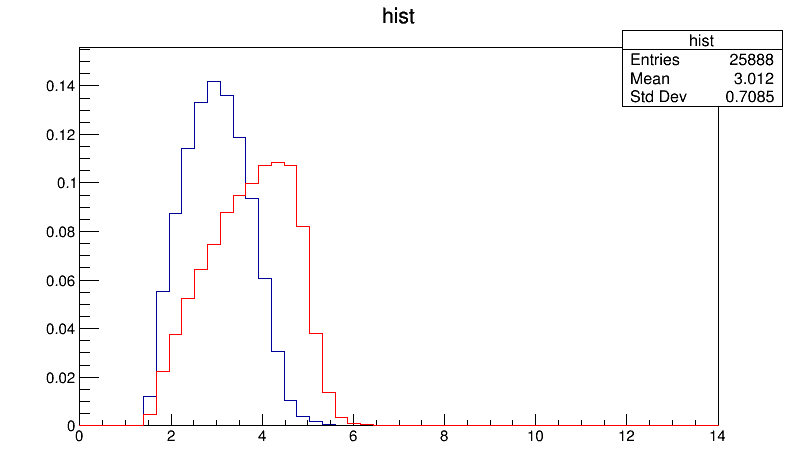
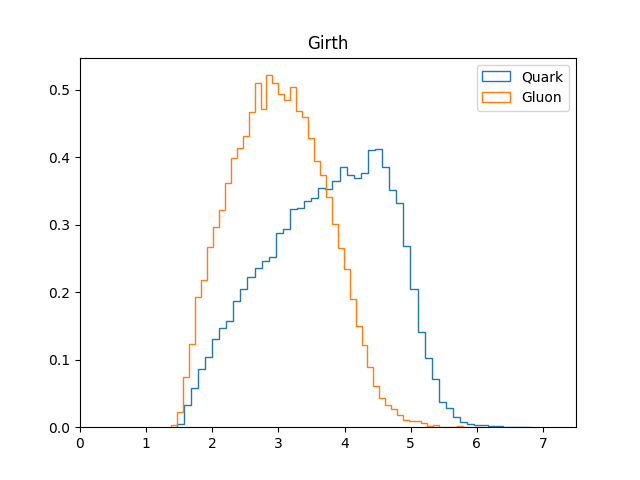
Repeat analysis EflowTracker
Rewrote histogram plotting code in Matplotlib

diff --git a/analysis-code/main-analysis.cc b/analysis-code/main-analysis.cc
@@ -24,6 +24,7 @@ void write_to_file(std::vector<float> e2_main);
 void add_to_hist(std::vector<float> e2_main,TH1 *e2_hist);
 void hist_to_file(TH1 *e2,double *a);
 void eflow_analysis(Float_t *ET,Float_t *eta,Float_t *phi,Float_t *E,Int_t size,std::vector<float> &e2,double *a);
+void eflow_analysis_track(Float_t *ET,Float_t *eta,Float_t *phi,Float_t *E,Int_t* PID,Int_t size,std::vector<float> &e2,double *a);
 template <typename T>
 void EventLoop(T &event,std::vector<float> &e2,double *a,int &taskid,int &numtasks)
 {
@@ -39,9 +40,25 @@ void EventLoop(T &event,std::vector<float> &e2,double *a,int &taskid,int &numtas
      std::cout<<std::setw(15)<<"Gathering event  "<<std::setw(10)<<jentry<<std::setw(15)<<
          " in the process "<<std::setw(2)<<taskid<<std::setw(5)<<"("<<(k*100.0)/chunksize<<"% )"<<std::endl;}
      event.GetEntry(jentry);
-     //root_to_fastjet(event.Particle_Px,event.Particle_Py,event.Particle_Pz,event.Particle_E,event.Particle_Status,event.Particle_PID,event.Particle_size,e2,a);
-     eflow_analysis(event.eflow_ET,event.eflow_Eta,event.eflow_Phi,event.eflow_E,event.eflow_size,e2,a); 
+     root_to_fastjet(event.Particle_Px,event.Particle_Py,event.Particle_Pz,event.Particle_E,event.Particle_Status,event.Particle_PID,event.Particle_size,e2,a);
+     //eflow_analysis(event.eflow_ET,event.eflow_Eta,event.eflow_Phi,event.eflow_E,event.eflow_size,e2,a); 
+     //eflow_analysis_track(event.EFlowTrack_PT,event.EFlowTrack_Eta,event.EFlowTrack_Phi,event.EFlowTrack_P,event.EFlowTrack_PID,event.EFlowTrack_size,e2,a); 
+
    }
+
+}
+void eflow_analysis_track(Float_t *ET,Float_t *eta,Float_t *phi,Float_t *E,Int_t* PID,Int_t size,std::vector<float> &e2,double *a){
+  Float_t px[size];
+  Float_t py[size];
+  Float_t pz[size];
+  Int_t status[size];
+  for(int i=0;i<size;i++){
+    px[i] = ET[i]*std::cos(phi[i]);
+    py[i] = ET[i]*std::sin(phi[i]);
+    pz[i] = ET[i]*std::sinh(eta[i]);
+    status[i] = 1;
+  }
+   root_to_fastjet(px,py,pz,E,status,PID,size,e2,a);
 
 }
 void eflow_analysis(Float_t *ET,Float_t *eta,Float_t *phi,Float_t *E,Int_t size,std::vector<float> &e2,double *a){

diff --git a/plotting-code/histoviewer.py b/plotting-code/histoviewer.py
@@ -1,0 +1,21 @@
+import numpy as np
+import matplotlib.pyplot as plt
+import matplotlib.cm as cm
+kkk=cm.gist_stern # Put the Plotting Style here
+temp = np.loadtxt('quark_1e5_13tev-eflow.txt')
+temp2 = np.loadtxt('gluon_1e5_13tev-eflow.txt')
+#temp = np.loadtxt('quark_1e5_13tev.txt')
+#temp2 = np.loadtxt('gluon_1e5_13tev.txt')
+Titles = ['E2','SubJettiness','Girth']
+#save = ['e2.png','tau.png','girth.png']
+save = ['e2-eflow.png','tau-eflow.png','girth-eflow.png']
+for i in range(len(temp[1,:])):
+  t = max(temp[:,i])
+  t2 = max(temp2[:,i])
+  plt.title(Titles[i])
+  plt.hist(temp[:,i], 50, normed=1, histtype='step',label ='Quark')
+  plt.hist(temp2[:,i], 50, normed=1, histtype='step',label = 'Gluon')
+  plt.legend(loc='upper right')
+  plt.xlim([0,max(t,t2)*1.1])
+  plt.savefig(save[i])
+  plt.close()

diff --git a/scikit-ml-code/random_forest.py b/scikit-ml-code/random_forest.py
@@ -18,9 +18,9 @@ train_y = np.array(train_y)[:,1]
 #classifier = tf.contrib.tensor_forest.client.random_forest.TensorForestEstimator( params, model_dir="./tmp/")
 #classifier.fit(x=x_train, y=y_train)
 #classifier = tree.DecisionTreeClassifier()
-classifier = RandomForestClassifier(n_jobs = -1,verbose = 1)
+#classifier = RandomForestClassifier(n_jobs = -1,verbose = 1)
 #classifier = ExtraTreesClassifier(verbose = 1)
-#classifier = AdaBoostClassifier()
+classifier = AdaBoostClassifier()
 classifier.fit(train_x, train_y)
 
 #y_out = classifier.predict(x=x_test)

diff --git a/tensorflow-code/networktrain.py b/tensorflow-code/networktrain.py
@@ -16,8 +16,8 @@ x = tf.placeholder('float', [None, res])
 y = tf.placeholder('float')
 
 def train_neural_network(x):
-  #prediction = convnet.neural_network_model(x)
-  prediction = fcc.neural_network_model_maxout(x)
+  prediction = convnet.neural_network_model(x)
+  #prediction = fcc.neural_network_model_maxout(x)
   #prediction = fcc.neural_network_model_relu(x)
   cost = tf.reduce_mean( tf.nn.softmax_cross_entropy_with_logits(logits=prediction,labels=y) )
   optimizer = tf.train.AdamOptimizer(learning_rate=0.001).minimize(cost)

diff --git a/analysis-code/fastjet-analysis.cc b/analysis-code/fastjet-analysis.cc
@@ -108,7 +108,7 @@ void root_to_fastjet(Float_t *px,Float_t *py,Float_t *pz,Float_t *e,Int_t *parti
   double g = 42;
   for( unsigned ijet = 0; ijet < soft_jets.size();ijet++){
     if(soft_jets[ijet].pt() < ptcutoff) continue;
-    if((soft_jets[ijet].m() < 100) && (soft_jets[ijet].m() > 80)) continue;
+    //if((soft_jets[ijet].m() < 100) && (soft_jets[ijet].m() > 80)) continue;
     jet_imagemaker(soft_jets[ijet]);
      e_2 = e_alpha(soft_jets[ijet],Rparam,alpha);
      tau = Nsubjet(soft_jets[ijet]);

diff --git a/README.md b/README.md
@@ -89,7 +89,7 @@ We knew this from the physics variables such as girth which were related to the 
 
 The JetImages seen below are average jet images over all the events.
 
-![jetimage](./plotting-code/jet_image.png)
+![jetimage](./plots/jet_image.png)
 
 # Neural Network Classification
 Based on the JetImages provided above a neural network was employed to classify the images into 2 categories 
@@ -121,9 +121,7 @@ Learning Rates
 ![loss_relu](./plots/ml-plots/loss_relu.png)
 
 ## Plotting with the Ecal data 
-Here Muon results are removed in a crude way by measuring the Jet mass and Ignoring the jets with 
-mass closer to that of muons.
-
+Muons are elimated from the EFLowTracker based on PID
 Better way will be made available soon as muon discrimation is done in Delphes
 ### E2
 ![](./plots/e2-eflow.png)
@@ -142,7 +140,7 @@ Better way will be made available soon as muon discrimation is done in Delphes
 
 # JetImages
 
-![jetimage-eflow](./plotting-code/jet_image-eflow.png)
+![jetimage-eflow](./plots/jet_image-eflow.png)
 
 # Neural Network Classification
 Based on the JetImages provided above a neural network was employed to classify the images into 2 categories 
